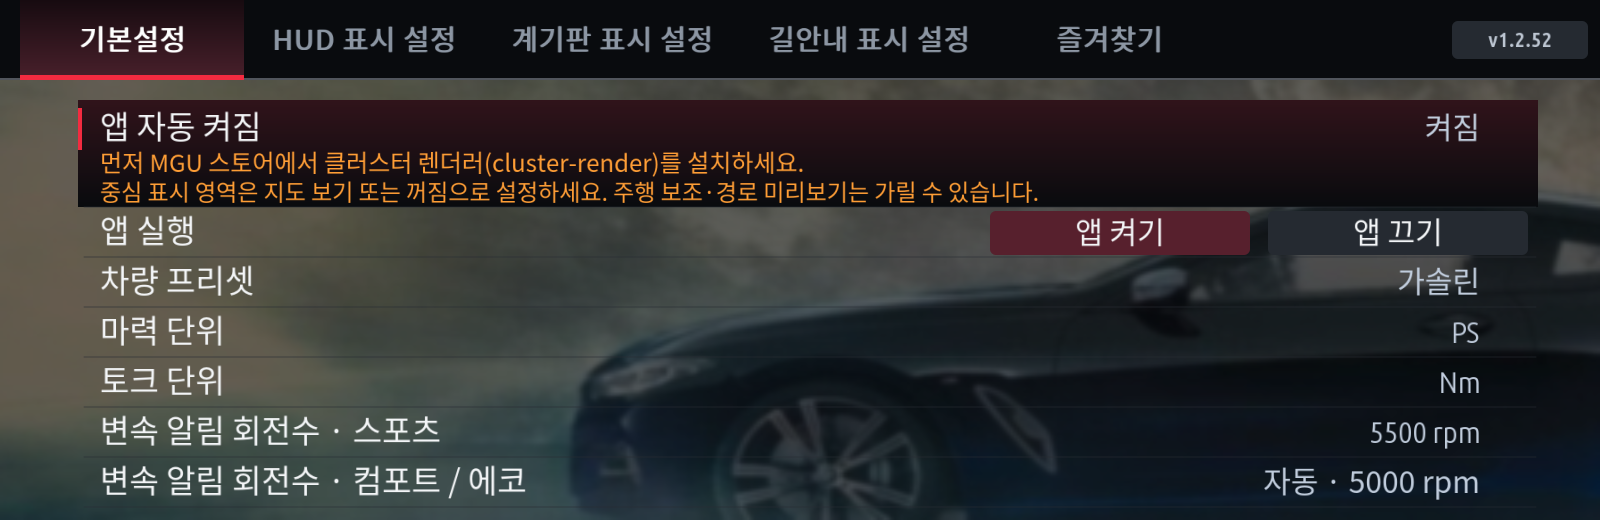
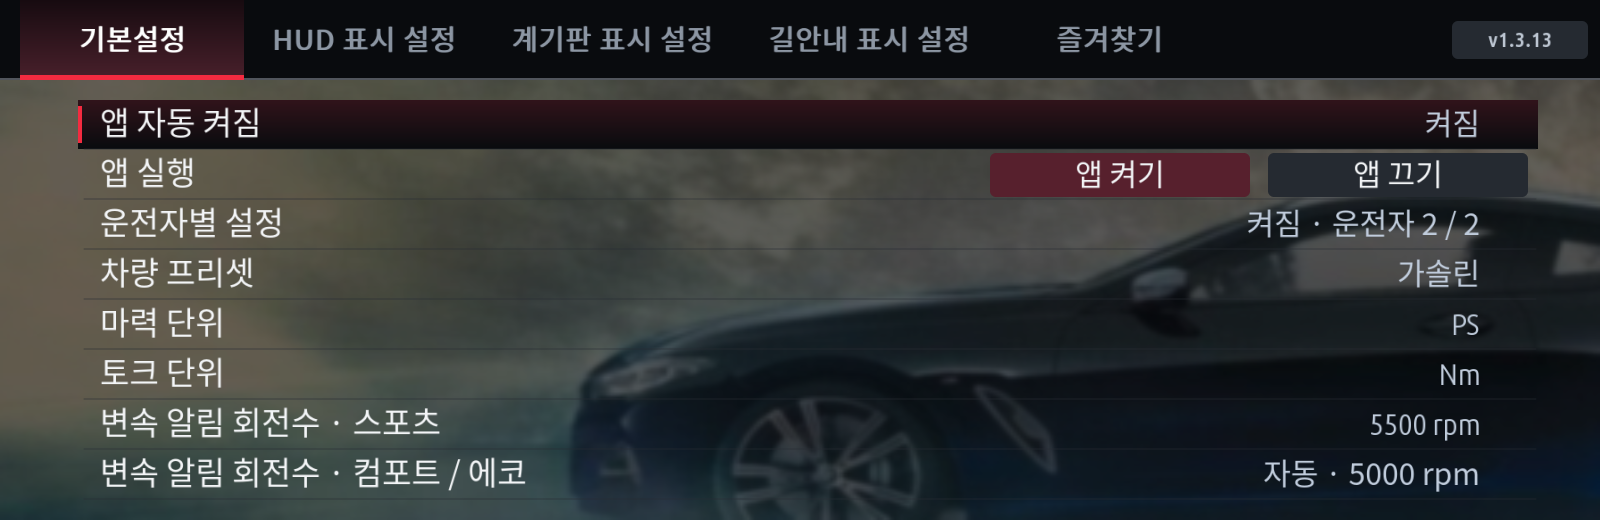
Cluster Redline 1.3.13: settings per driver; Basic tab without the orange notices
Settings per driver (Basic tab, off by default): the head unit's user account
(SessionManager.currentUserAccountReference, every 5 s) picks whose settings
are in use; each driver keeps the favourite-style setup (not the vehicle
preset or auto-start) in driver-profiles.json. The Basic tab drops the
renderer / display-area notices (the guide keeps them).

Claude-Session: https://claude.ai/code/session_01LR6i2U2cVprmp7fS2LvR7P

diff --git a/apps/cluster_redline/settings-ui.js b/apps/cluster_redline/settings-ui.js
@@ -6,7 +6,7 @@ const {settings:effective,PROFILES,DEFAULTS}=require('./policy');
 const D=require('./display-config'),RL=require('./redline-hud'),HUD=require('./hud-draw'),CLUSTER=require('./draw'),NAV=require('./nav-draw');
 const {measurePart}=require('./component-canvas'),{placement}=require('./layout'),NAV_TEXT=require('./nav-text');
 const W=1600,H=520,TABS=['Basic settings','HUD display setting','CLUSTER display setting','NAV display setting','Favorites'],FAV_TAB=4,FAV_COUNT=5,FAV_GAP=1500,FAV_ARM=4000;
-const GROUPS=[['autoStart','appEnabled','engineProfile','powerUnit','torqueUnit','shiftRpm','comfortShiftRpm'],['sportHudOutput','allHudOutput','aux','design','layout','turn'],['sportClusterOutput','allClusterOutput','aux','design','layout'],['navDisplayMode','navColor','clusterYieldGuidance','hudCarAlerts','layout']];
+const GROUPS=[['autoStart','appEnabled','driverProfiles','engineProfile','powerUnit','torqueUnit','shiftRpm','comfortShiftRpm'],['sportHudOutput','allHudOutput','aux','design','layout','turn'],['sportClusterOutput','allClusterOutput','aux','design','layout'],['navDisplayMode','navColor','clusterYieldGuidance','hudCarAlerts','layout']];
 const RENDERER_NOTICE='Install Cluster renderer (cluster-render) from MGU Store first.';
 const MAP_WARNING='Set Central display area to Map view or Off. Assist or route preview may cover the widget.';
 const HUD_WARNING='HUD navigation shows received turn guidance; unavailable data preserves stock guidance.';
@@ -17,6 +17,8 @@ const RL_KEYS=Object.keys(DEFAULTS).filter(k=>/^(hud|cluster)Rl/.test(k)),defaul
 // HUD turn signals: kept outside app.json, like the designs.
 const TURN_KEYS=Object.keys(D.defaults).filter(k=>/^hudTurn/.test(k));
 const TURN_ITEM={key:'turn',label:'Turn signals on HUD',type:'action'};
+// Settings per driver (driver-profiles.js): kept outside app.json; main.js sets page.driverStatus.
+const DRIVER_ITEM={key:'driverProfiles',label:'Settings per driver',type:'choice',options:[['off',tr('Off')],['on',tr('On')]]};
 // Vehicle alerts (vehicle-alerts.js): kept outside app.json, like the turn signals.
 const ALERT_KEYS=Object.keys(D.defaults).filter(k=>/^hudCarAlert/.test(k));
 const ALERT_ITEM={key:'hudCarAlerts',label:'Vehicle alerts',type:'choice',options:[['off',tr('Off')],['speed',tr('Speeding')],['school',tr('School zone')],['camera',tr('Speed camera')],['all',tr('Show all')]]};
@@ -67,7 +69,7 @@ class SettingsPage{
  config(){const raw={};this.settings.schema.forEach(s=>{raw[s.key]=this.settings.get(s.key);});['clockZone','layoutPreview','hudDesign','clusterDesign','comfortShiftRpm','clusterYieldGuidance','navTextColor'].concat(RL_KEYS,TURN_KEYS,ALERT_KEYS).forEach(k=>{if(raw[k]===undefined)raw[k]=this.settings.get(k);});return effective(raw);}
  display(){return this.tab===2?'cluster':'hud';}
  keys(){return this.tab===FAV_TAB?[]:GROUPS[this.tab];}
- item(){const key=this.keys()[this.focus];if(key==='turn')return TURN_ITEM;if(key==='hudCarAlerts')return ALERT_ITEM;if(key==='comfortShiftRpm')return COMFORT_ITEM;if(key==='clusterYieldGuidance')return YIELD_ITEM;if(['aux','design','layout'].includes(key))return {key,label:{aux:'Auxiliary information',design:'Design',layout:'Position / size'}[key],type:'action'};return this.settings.schema.find(s=>s.key===key);}
+ item(){const key=this.keys()[this.focus];if(key==='turn')return TURN_ITEM;if(key==='hudCarAlerts')return ALERT_ITEM;if(key==='driverProfiles')return DRIVER_ITEM;if(key==='comfortShiftRpm')return COMFORT_ITEM;if(key==='clusterYieldGuidance')return YIELD_ITEM;if(['aux','design','layout'].includes(key))return {key,label:{aux:'Auxiliary information',design:'Design',layout:'Position / size'}[key],type:'action'};return this.settings.schema.find(s=>s.key===key);}
  // Keep Basic a normal tab, including repeated taps from older hosts.
  tapBasic(){this.selectTab(0);}
  selectTab(i){if(this.open==='layout'||this.open==='layoutPresets'||this.settings.get('layoutPreview'))this.setPreview(false);this.layoutKind=null;this.tab=Math.max(0,Math.min(FAV_TAB,i|0));this.favArmed=null;this.focus=0;this.open=null;this.draft=null;this.choice=0;this.changed();}
@@ -94,6 +96,7 @@ class SettingsPage{
   if(item.key==='aux'){const a=D.auxConfig(cfg[this.display()+'AuxConfig']);return t(a.mode==='values'?'Text':'Gauges')+' · '+a.items.map(k=>tr(D.LABELS[k])).join(' / ');}
   if(item.key==='design'){const d=this.display();if(RL.active(cfg,d))return tr('Redline app layouts')+' · '+tr(RL.NAMES[RL.style(cfg,d)]);return t(cfg[this.display()+'AlertStyle']==='circle'?'Circle beside gear':'Top alert bar');}
   if(item.key==='layout')return t('Adjust');
+  if(item.key==='driverProfiles')return this.driverValue();
   if(item.key==='navColor')return tr('Arrow')+' '+tr(NAV_COLOR_LABELS[cfg.navColor])+' · '+tr('Text')+' '+tr(NAV_COLOR_LABELS[cfg.navTextColor]);
   if(item.key==='turn')return cfg.hudTurnSignals==='on'?tr('On')+' · '+tr(TURN_STYLE_LABELS[cfg.hudTurnStyle])+' · '+tr(TURN_COLOR_LABELS[cfg.hudTurnColor]):tr('Off');
   if(item.key==='appEnabled')return t(cfg.appEnabled?'Running':'Stopped');
@@ -164,8 +167,8 @@ class SettingsPage{
  drawRows(cv,cfg,targets,status){
   let y=100;
   this.keys().forEach((key,i)=>{
-   const item=key==='turn'?TURN_ITEM:key==='hudCarAlerts'?ALERT_ITEM:key==='comfortShiftRpm'?COMFORT_ITEM:key==='clusterYieldGuidance'?YIELD_ITEM:['aux','design','layout'].includes(key)?{key,label:{aux:'Auxiliary information',design:'Design',layout:'Position / size'}[key]}:this.settings.schema.find(s=>s.key===key);
-   const h=this.tab===0?(key==='autoStart'?108:50):this.tab===1||this.tab===3?56:68,ty=h===50?35:39;
+   const item=key==='turn'?TURN_ITEM:key==='hudCarAlerts'?ALERT_ITEM:key==='driverProfiles'?DRIVER_ITEM:key==='comfortShiftRpm'?COMFORT_ITEM:key==='clusterYieldGuidance'?YIELD_ITEM:['aux','design','layout'].includes(key)?{key,label:{aux:'Auxiliary information',design:'Design',layout:'Position / size'}[key]}:this.settings.schema.find(s=>s.key===key);
+   const h=this.tab===0?50:this.tab===1||this.tab===3?56:68,ty=h===50?35:39;
    if(i===this.focus){cv.gradientRect(78,y,1460,h-1,[[0,'#30131a'],[1,'#090b0e']]);cv.fillRect(78,y+(h===50?6:8),4,h===50?37:42,'#f32b40');}
    const label=/^sport/.test(key)?'Sport mode RPM display':/^all/.test(key)?'All modes RPM display':ROW_LABELS[key]||item.label;
    cv.text(tr(label),100,y+ty,32,'#f3f5f7');
@@ -175,7 +178,7 @@ class SettingsPage{
     let size=30,value=this.value(item,cfg);while(size>18&&cv.textWidth(value,size)>850)size--;
     cv.text(value,1480,y+ty,size,'#c1cddd',{align:'right'});targets.push({x:78,y,w:1460,h:h-1,act:()=>this.activate(i),label,id:key});
    }
-   if(key==='autoStart'){cv.text(RENDERER_NOTICE,100,y+72,24,'#ff9e36');cv.text(cfg.sportHudOutput==='redline'||cfg.allHudOutput!=='stock'?HUD_WARNING:MAP_WARNING,100,y+101,23,'#ff9e36');}
+   // (1.3.13: the Basic tab's renderer / display-area notices are gone; the guide keeps them)
    cv.line(84,y+h-1,1536,y+h-1,0.6,'#292d34');y+=h;
   });
   if(this.tab===1||this.tab===2){cv.text(tr('All modes: Sport too · Except Sport modes: Sport follows its own row.'),84,492,23,'#91a1b6',{literal:true});let o=this.outsideStatus(cfg);if(o){while(o.length>5&&cv.textWidth(o,21,{literal:true})>1000)o=o.slice(0,-2);cv.text(o,84,462,21,'#ffad45',{literal:true});}}
@@ -210,6 +213,13 @@ class SettingsPage{
    parts.push(a.state==='waiting'?tr('route events not available yet'):a.state==='types_rejected'?tr('the car refused the alert query'):!a.replies?tr('Speed camera')+' '+tr('no reply yet'):tr('Speed camera')+' '+(k('speedCamera')+k('speedSectionCamera'))+'/'+a.replies);}
   if(o.shown)parts.push(tr('shown'));
   return head+': '+parts.join(' · ');
+ }
+ // Settings per driver: on / off and whose settings are in use (driver 1, 2 ... in the order first seen).
+ driverValue(){
+  if(this.settings.get('driverProfiles')!=='on')return tr('Off');
+  const s=typeof this.driverStatus==='function'?this.driverStatus():null;if(!s)return tr('On');
+  if(s.state==='ready'&&s.driver)return tr('On')+' · '+tr('Driver')+' '+s.driver+(s.drivers>1?' / '+s.drivers:'');
+  return tr('On')+' · '+tr(s.state==='error'||s.state==='unavailable'?'driver not readable':'reading the driver');
  }
  yieldStatus(cfg){
   if(cfg.clusterYieldGuidance==='off')return '';const y=this.liveState&&this.liveState.clusterYield;if(!y)return tr('Yield')+': '+tr('waiting for the background app');
@@ -538,4 +548,4 @@ class SettingsPage{
  }
 
 }
-module.exports={SettingsPage,GROUPS,TABS,options,W,H,MAP_WARNING,HUD_WARNING,RENDERER_NOTICE,WARNING:MAP_WARNING};
+module.exports={favKeys,SettingsPage,GROUPS,TABS,options,W,H,MAP_WARNING,HUD_WARNING,RENDERER_NOTICE,WARNING:MAP_WARNING};

diff --git a/apps/cluster_redline/driver-profiles.js b/apps/cluster_redline/driver-profiles.js
@@ -1,0 +1,61 @@
+'use strict';
+// Settings per driver: the head unit's current user account (personalization.SessionManager
+// .currentUserAccountReference, a getter, read every 5 s, as Cluster Info in appscluster_fork does) picks whose
+// settings are in use. Each driver keeps the favourite-style whole setup (settings-ui favKeys, without what belongs
+// to the car: vehicle preset, auto-start) in driver-profiles.json in the app's data folder:
+//   - a change is kept for the driver at the time;
+//   - a driver seen again gets theirs back (one write, only the keys that differ);
+//   - a driver seen for the first time keeps what is set now.
+// Off (the default) reads nothing. Read-only towards the car; subscribed directly (not through the worker's demand
+// set), only while on.
+const IFACE='de.bmw.infotainment.personalization.SessionManager',FIELD='currentUserAccountReference';
+const CAR_KEYS=['engineProfile','autoStart','driverProfiles'];
+function idOf(v){
+ if(typeof v==='string'||typeof v==='number')return String(v)||null;
+ if(v&&typeof v==='object'){for(const k of ['value',FIELD,'id','reference']){const r=idOf(v[k]);if(r)return r;}}
+ return null;
+}
+class DriverProfiles{
+ // o: { settings, signals, log, fs, file, keys: () => [setting keys], changed: () => void }
+ constructor(o){
+  this.settings=o.settings;this.signals=o.signals;this.log=o.log||{warn(){},info(){}};this.fs=o.fs;this.file=o.file;this.keysOf=o.keys;this.changed=o.changed||(()=>{});
+  this.profiles={};this.order=[];this.current=null;this.sub=null;this.state='off';this.error=null;this.applying=false;this.reads=0;
+  try{const d=JSON.parse(this.fs.readFileSync(this.file,'utf8'));if(d&&typeof d==='object'){this.profiles=d.profiles||{};this.order=Array.isArray(d.order)?d.order:Object.keys(this.profiles);}}catch(e){}
+  this.settings.onChange((k,v)=>{
+   if(k==='driverProfiles'){this.sync();return;}
+   if(this.applying||!this.on()||!this.current||this.keys().indexOf(k)<0)return;
+   this.profiles[this.current]=Object.assign(this.profiles[this.current]||this.snapshot(),{[k]:v});this.save();
+  });
+  this.sync();
+ }
+ on(){return this.settings.get('driverProfiles')==='on';}
+ keys(){return this.keysOf().filter(k=>CAR_KEYS.indexOf(k)<0);}
+ snapshot(){const o={};this.keys().forEach(k=>{const v=this.settings.get(k);if(v!==undefined)o[k]=v;});return o;}
+ save(){try{this.fs.writeFileSync(this.file,JSON.stringify({profiles:this.profiles,order:this.order}));}catch(e){this.log.warn('driver profiles: '+e);}}
+ // Start or stop reading the current driver as the setting says.
+ sync(){
+  if(!this.on()){if(this.sub){try{this.sub.shutdown();}catch(e){}this.sub=null;}this.current=null;this.state='off';this.changed();return;}
+  if(this.sub||this.state==='subscribing')return;
+  if(!this.signals||typeof this.signals.watch!=='function'||(typeof this.signals.hasNative==='function'&&!this.signals.hasNative())){this.state='unavailable';this.changed();return;}
+  this.state='subscribing';
+  Promise.resolve().then(()=>this.signals.watch(IFACE,IFACE,{[FIELD]:v=>this.sample(v)},this.log,{pollMs:5000})).then(s=>{
+   if(!this.on()){try{s.shutdown();}catch(e){}this.state='off';return;}
+   this.sub=s;this.error=s&&s.error?String(s.error):null;this.state=this.error?'error':'waiting';this.changed();
+  },e=>{this.error=String(e&&e.message||e);this.state='error';this.changed();});
+ }
+ sample(v){
+  this.reads++;const id=idOf(v);if(!id||!this.on())return;
+  this.state='ready';if(id===this.current)return;
+  this.current=id;if(this.order.indexOf(id)<0)this.order.push(id);
+  const saved=this.profiles[id];
+  if(!saved){this.profiles[id]=this.snapshot();this.save();this.log.info('driver profile: first seen, current settings kept');this.changed();return;}
+  const changes={};Object.keys(saved).forEach(k=>{if(this.keys().indexOf(k)>=0&&saved[k]!==undefined&&this.settings.get(k)!==saved[k])changes[k]=saved[k];});
+  if(Object.keys(changes).length){this.applying=true;
+   try{if(typeof this.settings.setMany==='function')this.settings.setMany(changes);else Object.keys(changes).forEach(k=>this.settings.set(k,changes[k]));}finally{this.applying=false;}}
+  this.log.info('driver profile: their settings');this.changed();
+ }
+ /** For the settings screen: { state, driver: 1-based number in the order first seen, or null, drivers }. */
+ status(){return {state:this.state,driver:this.current?this.order.indexOf(this.current)+1:null,drivers:this.order.length,error:this.error};}
+ stop(){if(this.sub){try{this.sub.shutdown();}catch(e){}this.sub=null;}}
+}
+module.exports={DriverProfiles,IFACE,FIELD,idOf,CAR_KEYS};

diff --git a/apps/cluster_redline/strings.js b/apps/cluster_redline/strings.js
@@ -11,7 +11,7 @@ const KO={
  'Traffic signs':'교통 표지','Select Redline HUD in the current drive mode':'현재 주행 모드의 HUD를 레드라인 앱으로 선택하세요','Camera input missing · reinstall from Store':'카메라 신호 미설치 · 스토어에서 다시 설치','Waiting for camera sign data':'카메라 표지 데이터 수신 대기','Camera':'카메라','Combined recognition':'종합 인식','Alert data ready':'알림 표시 조건 충족','Camera data expired or disconnected':'카메라 데이터 만료 또는 연결 끊김','Combined input missing · reinstall from Store':'종합 인식 신호 미설치 · 스토어에서 다시 설치','Speed limit outside supported test range':'시험 지원 범위 밖 제한속도','No fresh matching sign · children alert lasts 6 s':'유효한 일치 표지 대기 · 어린이 알림은 6초 표시',
  'Save + new recording':'기록 저장 · 계속','Clear current records':'현재 기록 지우기','No records yet · recording started':'저장할 기록 없음 · 새 수집 시작','Saved · new recording':'저장 완료 · 새 수집 중','Save failed':'기록 저장 또는 재시작 실패',
  'Shown on the HUD whenever a turn signal or the hazards flash, even with the stock HUD.':'방향지시등·비상등이 깜빡이면 순정 HUD에서도 표시됩니다.',
- 'Turn signal input':'깜빡이 신호','Vehicle alerts':'차량 알림','Arrow colour':'화살표 색','Text colour':'텍스트 색','Arrow':'화살표','Sample road':'강남대로','Orange':'주황색','Green':'초록색','Blue':'파란색','White':'흰색','Sign recognition':'표지 인식','Speed':'속도','Speeding':'과속','School zone':'어린이보호구역','Speed camera':'단속 카메라','Section camera':'구간 단속','In the zone':'구역 안','In the section':'구간 안','Show all':'전체 표시','route events not available yet':'길안내 이벤트 아직 없음','the car refused the alert query':'차가 알림 조회를 거부함','asked':'조회','no reply yet':'응답 없음','shown':'표시 중','not installed (reinstall from the Store)':'미설치 (스토어에서 다시 설치)','no value from the car yet':'차에서 값이 아직 안 옴','Left':'왼쪽','Right':'오른쪽','Both (hazards)':'양쪽(비상등)','in the Redline HUD':'레드라인 HUD에 표시','overlay':'오버레이로 표시',
+ 'Turn signal input':'깜빡이 신호','Vehicle alerts':'차량 알림','Settings per driver':'운전자별 설정','Driver':'운전자','driver not readable':'운전자 확인 불가','reading the driver':'운전자 확인 중','Arrow colour':'화살표 색','Text colour':'텍스트 색','Arrow':'화살표','Sample road':'강남대로','Orange':'주황색','Green':'초록색','Blue':'파란색','White':'흰색','Sign recognition':'표지 인식','Speed':'속도','Speeding':'과속','School zone':'어린이보호구역','Speed camera':'단속 카메라','Section camera':'구간 단속','In the zone':'구역 안','In the section':'구간 안','Show all':'전체 표시','route events not available yet':'길안내 이벤트 아직 없음','the car refused the alert query':'차가 알림 조회를 거부함','asked':'조회','no reply yet':'응답 없음','shown':'표시 중','not installed (reinstall from the Store)':'미설치 (스토어에서 다시 설치)','no value from the car yet':'차에서 값이 아직 안 옴','Left':'왼쪽','Right':'오른쪽','Both (hazards)':'양쪽(비상등)','in the Redline HUD':'레드라인 HUD에 표시','overlay':'오버레이로 표시',
  'Speed limit':'제한속도','Speed alert':'과속 알림',
  'Children caution':'어린이 주의','Sign detected':'표지 감지',
  'Traffic sign alerts · experimental':'교통 표지 알림 · 시험 기능','Recognised speed limit':'인식 제한속도','Children sign':'어린이 주의 표지','Speed limit + children':'제한속도 + 어린이 주의','Children · sign detected':'어린이 주의 · 표지 감지','Over limit':'속도 초과',

diff --git a/tests/cluster_redline/driver-profiles.test.js b/tests/cluster_redline/driver-profiles.test.js
@@ -1,0 +1,29 @@
+'use strict';
+// Settings per driver: off reads nothing; on, the head unit's user account picks whose settings are in use; a change
+// is kept for the driver at the time; a new driver keeps the current settings; car settings are shared.
+const assert=require('assert');
+const {DriverProfiles,IFACE,FIELD,idOf}=require('../../apps/cluster_redline/driver-profiles');
+const settle=async()=>{for(let i=0;i<6;i++)await Promise.resolve();};
+(async()=>{
+ const values={driverProfiles:'off',hudDesign:'own',navColor:'blue',engineProfile:'petrol',autoStart:true},listeners=[];let writes=0;
+ const settings={get:k=>values[k],set:(k,v)=>{values[k]=v;listeners.forEach(f=>f(k,v));},setMany:c=>{writes++;Object.keys(c).forEach(k=>{values[k]=c[k];listeners.forEach(f=>f(k,c[k]));});},onChange:f=>listeners.push(f)};
+ const files={};const fs={readFileSync:f=>{if(!(f in files))throw new Error('ENOENT');return files[f];},writeFileSync:(f,d)=>{files[f]=d;}};
+ let feed=null,watched=0,shut=0;const signals={hasNative:()=>true,watch:(iface,inst,handlers,log,opts)=>{watched++;assert.strictEqual(iface,IFACE);assert.strictEqual(inst,IFACE);assert.strictEqual(opts.pollMs,5000);feed=handlers[FIELD];return Promise.resolve({available:true,shutdown(){shut++;}});}};
+ const d=new DriverProfiles({settings,signals,fs,file:'/data/driver-profiles.json',keys:()=>['hudDesign','navColor','engineProfile','autoStart','driverProfiles']});
+ await settle();assert.strictEqual(watched,0,'off: nothing read');assert.strictEqual(d.status().state,'off');
+ settings.set('driverProfiles','on');await settle();assert.strictEqual(watched,1);assert.strictEqual(d.status().state,'waiting');
+ feed({value:'acc-A'});assert.deepStrictEqual(d.status(),{state:'ready',driver:1,drivers:1,error:null});
+ settings.set('hudDesign','rl-ramp');settings.set('engineProfile','diesel');
+ feed('acc-B');assert.strictEqual(d.status().driver,2,'a new driver');assert.strictEqual(values.hudDesign,'rl-ramp','a new driver keeps what is set');
+ settings.set('hudDesign','own');settings.set('navColor','orange');
+ feed('acc-A');assert.strictEqual(values.hudDesign,'rl-ramp','driver A gets theirs back');assert.strictEqual(values.navColor,'blue');
+ assert.strictEqual(values.engineProfile,'diesel','the vehicle preset belongs to the car');
+ feed('acc-A');const w=writes;feed('acc-A');assert.strictEqual(writes,w,'the same driver: no write');
+ feed('acc-B');assert.strictEqual(values.hudDesign,'own');assert.strictEqual(values.navColor,'orange','driver B gets theirs back');
+ const saved=JSON.parse(files['/data/driver-profiles.json']);assert.deepStrictEqual(saved.order,['acc-A','acc-B']);assert(!('engineProfile' in saved.profiles['acc-A']));
+ const again=new DriverProfiles({settings,signals,fs,file:'/data/driver-profiles.json',keys:()=>['hudDesign','navColor']});await settle();assert.strictEqual(again.status().drivers,2,'kept across restarts');again.stop();
+ settings.set('driverProfiles','off');await settle();assert(shut>=1,'off: reading stops');assert.strictEqual(d.status().state,'off');
+ assert.strictEqual(idOf({currentUserAccountReference:7}),'7');assert.strictEqual(idOf(null),null);
+ const none=new DriverProfiles({settings:Object.assign({},settings,{get:k=>k==='driverProfiles'?'on':values[k]}),signals:null,fs,file:'/x',keys:()=>[]});assert.strictEqual(none.status().state,'unavailable');
+ console.log('PASS: settings per driver: off reads nothing, the user account picks the settings, changes kept per driver, new driver keeps current, car settings shared, kept across restarts');
+})().catch(e=>{console.error(e);process.exitCode=1;});

diff --git a/apps/cluster_redline/main.js b/apps/cluster_redline/main.js
@@ -10,6 +10,7 @@ const { migrate } = require('./migrate');
 const { mapStatus } = require('./output-status');
 const { RenderQueue } = require('./render-queue');
 const presence = require('./preview-presence');
+const { DriverProfiles } = require('./driver-profiles');
 const REASONS = {
     disabled: 'Automatic display off', renderer_unavailable: 'Waiting for cluster renderer',
     profile_unknown: 'Check engine profile', hybrid_engine_stopped: 'Hybrid engine stopped · hidden',
@@ -55,10 +56,14 @@ mgu.run({ settingsUI: 'custom', async start(ctx) {
     let background = null;
     const queue = new RenderQueue(render, report);
     const page = new SettingsPage(ctx.settings, () => queue.request(), ctx.spec.version);
+    // Settings per driver (driver-profiles.js): whose settings are in use follows the head unit's user account.
+    const drivers = new DriverProfiles({ settings: ctx.settings, signals: ctx.signals, log: ctx.log, fs, file: path.join(ctx.dataDir, 'driver-profiles.json'),
+        keys: () => require('./settings-ui').favKeys(ctx.settings.schema || []), changed: () => queue.request() });
+    page.driverStatus = () => drivers.status();
     // A preview left by an earlier process ends now; leaving the settings screen ends Position / size.
     if (ctx.settings.get('layoutPreview')) ctx.settings.set('layoutPreview', '');
     if (ctx.ui && typeof ctx.ui.onVisible === 'function') ctx.ui.onVisible((name, visible) => { if (name === 'MAIN' && !visible) page.leave(); });
-    if (ctx.app && ctx.app.once) ctx.app.once('shutdown', () => queue.stop());
+    if (ctx.app && ctx.app.once) ctx.app.once('shutdown', () => { queue.stop(); drivers.stop(); });
     function report() {}   // no logs
     function syncWorker() {
         if (ctx.settings.get('appEnabled') === true && !background) background = worker.start(ctx);

diff --git a/tests/cluster_redline/settings-refresh.test.js b/tests/cluster_redline/settings-refresh.test.js
@@ -7,7 +7,7 @@ const mocks={fs:{statSync(){throw Error('ENOENT');},mkdirSync(){},readFileSync()
  './settings-ui':{SettingsPage:class{constructor(s,changed){this.changed=changed;}selectTab(){this.changed();}},W:1600,H:520},
  './settings-chrome':{configure(){}},'./worker':{start(){throw Error('disabled app must not start');}},
  './migrate':{migrate(){}},'./output-status':{mapStatus:()=>''},
- './render-queue':{RenderQueue:class{request(){requests++;}async flush(){}stop(){}}},'./preview-presence':{touch(){}}};
+ './render-queue':{RenderQueue:class{request(){requests++;}async flush(){}stop(){}}},'./preview-presence':{touch(){}},'./driver-profiles':{DriverProfiles:class{status(){return {};}stop(){}}}};
 vm.runInNewContext(fs.readFileSync(root+'/main.js','utf8'),{require:n=>{assert(n in mocks,'unexpected runtime dependency '+n);return mocks[n];},Date:{now:()=>now,parse:Date.parse}});
 (async()=>{
  await entry.start({dataDir:'/d',spec:{id:'cluster_redline',version:'test'},settings:{get:()=>false,set(){},onChange(){}},

diff --git a/tests/cluster_redline/draft-settings.test.js b/tests/cluster_redline/draft-settings.test.js
@@ -7,7 +7,7 @@ const ui=load('settings-ui.js',{'./kit/i18n':{t:x=>x},'./kit/gauges':{},'./setti
 function canvas(){const c={labels:[],textWidth:(s,z)=>String(s).length*z/2,text(s){this.labels.push(s);}};for(const n of ['clear','line','polyline','fillRect','roundRect','gradientRect'])c[n]=()=>{};return c;}
 const saved=store({autoStart:false,appEnabled:false}),page=new ui.SettingsPage(saved,null,'draft');
 let cv=page.draw(canvas());
-assert.strictEqual(page.keys().length,7,'Basic: six settings and the Comfort / Eco shift alert RPM');
+assert.strictEqual(page.keys().length,8,'Basic: six settings, the Comfort / Eco shift alert RPM and Settings per driver');
 for(const r of cv.targets)assert(r.x>=0&&r.y>=0&&r.x+r.w<=1600&&r.y+r.h<=520);
 cv.targets.find(r=>r.x===990).act();assert.strictEqual(saved.get('appEnabled'),true);assert.strictEqual(saved.get('autoStart'),false);
 cv.targets.find(r=>r.x===1268).act();assert.strictEqual(saved.get('appEnabled'),false);

diff --git a/README.md b/README.md
@@ -8,7 +8,7 @@ their ID7 restrictions. Listing visibility does not enable ID8 installation.
 
 **Made by 잼님 (jaimeen77)** · Download: [github.com/jaimeen77-cmyk/apps](https://github.com/jaimeen77-cmyk/apps) · MGU Store source: `jaimeen77-cmyk/apps` (branch `main`) · Blog: [blog.naver.com/jaimeen77](https://blog.naver.com/jaimeen77) · Korean guide: [설치·사용 설명서](docs/CLUSTER-REDLINE.ko.md)
 
-**Cluster Redline 1.3.12** (now permission required, see License below): navigation arrow and text colours (orange / green / blue / white); vehicle alerts on the HUD (speeding and children signs from the camera sign recognition, speed cameras); HUD turn signals work (the light module is now subscribed), in the Redline HUD while it shows, on their own overlay layers over the stock HUD, Position / size preview ends when the screen is left, battery voltage kept through missed replies; all modes RPM display can leave out Sport modes (cluster and HUD), turn signal arrows on the HUD (shape, colour, position); cluster released while guidance shows on the HUD (Waze included), tuned HUD layout defaults, outside temperature fix (1.2.8: Redline layouts element by element, Korean time for the clock). **iDrive Circuit 1.0.5** and **MGU Monitor 1.1.7** (Log history tab: daily averages and average use by app) are also available.
+**Cluster Redline 1.3.13** (now permission required, see License below): settings per driver; navigation arrow and text colours (orange / green / blue / white); vehicle alerts on the HUD (speeding and children signs from the camera sign recognition, speed cameras); HUD turn signals work (the light module is now subscribed), in the Redline HUD while it shows, on their own overlay layers over the stock HUD, Position / size preview ends when the screen is left, battery voltage kept through missed replies; all modes RPM display can leave out Sport modes (cluster and HUD), turn signal arrows on the HUD (shape, colour, position); cluster released while guidance shows on the HUD (Waze included), tuned HUD layout defaults, outside temperature fix (1.2.8: Redline layouts element by element, Korean time for the clock). **iDrive Circuit 1.0.5** and **MGU Monitor 1.1.7** (Log history tab: daily averages and average use by app) are also available.
 
 [한국어](README.ko.md)
 
@@ -19,7 +19,7 @@ their ID7 restrictions. Listing visibility does not enable ID8 installation.
 | Use MGU Monitor | [MGU Monitor](apps/storage/README.md) | [MGU 모니터](apps/storage/README.ko.md) |
 | Use Circuit | [Circuit](apps/idrive_circuit/README.md) | [회로 퍼즐](apps/idrive_circuit/README.ko.md) |
 
-Add MGU Store source **`jaimeen77-cmyk/apps`**, branch **`main`**, refresh and choose Korean or English. Redline requires **`cluster-render` 0.4.0+**. Update existing installs in Installed and check **v1.3.12** in the app. Stop and disable auto-start in an unused language edition if both are installed.
+Add MGU Store source **`jaimeen77-cmyk/apps`**, branch **`main`**, refresh and choose Korean or English. Redline requires **`cluster-render` 0.4.0+**. Update existing installs in Installed and check **v1.3.13** in the app. Stop and disable auto-start in an unused language edition if both are installed.
 
 | HUD circle | HUD bar |
 |---|---|

diff --git a/docs/CLUSTER-REDLINE.ko.md b/docs/CLUSTER-REDLINE.ko.md
@@ -59,6 +59,7 @@
 |---|---|---|
 | 앱 자동 켜짐 | 켜짐 / 꺼짐 | 다음 시동(앱 시작) 때 자동으로 표시를 시작할지 정합니다. |
 | 앱 실행 | 앱 켜기 / 앱 끄기 | 지금 바로 표시를 시작·중지합니다. 꺼도 설정 화면은 그대로 쓸 수 있습니다. |
+| 운전자별 설정 | 꺼짐(기본) / 켜짐 | 켜면 차의 현재 사용자(운전자 프로필)에 따라 설정을 따로 기억합니다. 아래 3-1. |
 | 차량 프리셋 | 가솔린 / 디젤 / eDrive (플러그인 하이브리드) / M | RPM 눈금과 변속 알림 기본값을 정합니다. 차를 자동으로 알아보는 기능은 아닙니다. |
 | 마력 단위 | PS / kW | 마력 표시 단위입니다. |
 | 토크 단위 | Nm / kgf·m | 토크 표시 단위입니다. |
@@ -68,6 +69,17 @@
 변속 알림은 설정 회전수의 50 %부터 초록, 80 %부터 노랑, 설정 회전수에서 빨강으로 깜박입니다.
 
 ![컴포트 / 에코 변속 알림 회전수](../screenshots/guide/settings-basic-comfort.png)
+
+설치 전 준비(클러스터 렌더러 cluster-render 설치, 중심 표시 영역을 지도 보기 또는 꺼짐으로)는 위 1. 설치를 참고하세요. 1.3.13부터 이 안내는 기본설정 탭에 표시하지 않습니다.
+
+### 3-1. 운전자별 설정
+
+- 차의 현재 사용자 계정(운전자 프로필)을 5초마다 확인해, 운전자마다 설정을 따로 기억합니다.
+- 설정을 바꾸면 그때 운전 중인 운전자의 설정으로 저장됩니다. 다른 운전자로 바뀌면 그 사람 설정으로 자동으로 바뀝니다.
+- 처음 보는 운전자는 지금 설정을 그대로 이어받습니다.
+- 운전자별로 기억하는 범위는 즐겨찾기와 같습니다(디자인, 위치/크기, 부가정보, 길안내 색, 깜빡이, 차량 알림 등). **차량 프리셋**과 **앱 자동 켜짐**은 차 설정이라 모든 운전자가 함께 씁니다.
+- 줄 오른쪽에 `켜짐 · 운전자 2 / 2`처럼 지금 운전자(처음 본 순서대로 번호)와 기억한 운전자 수가 나옵니다. **운전자 확인 불가**가 나오면 이 차에서 운전자 프로필을 읽을 수 없는 것입니다.
+- 기억한 설정은 앱 데이터 폴더의 `driver-profiles.json`에 있습니다. 차에는 아무것도 쓰지 않습니다.
 
 ---
 

diff --git a/CHANGELOG.md b/CHANGELOG.md
@@ -2,6 +2,11 @@
 
 Version history is kept here. For current usage, see [Cluster Redline](docs/CLUSTER-REDLINE.ko.md).
 
+## Cluster Redline 1.3.13
+
+- **Settings per driver** (Basic tab, off by default): the head unit's current user account (`personalization.SessionManager.currentUserAccountReference`, read every 5 s, as Cluster Info in appscluster_fork does) picks whose settings are in use. Each driver keeps the favourite-style whole setup (without the vehicle preset and auto-start, which belong to the car) in `driver-profiles.json`: a change is kept for the driver at the time, a driver seen again gets theirs back in one write, a driver seen for the first time keeps the current settings. The row shows `On · Driver 2 / 2`, or that the driver cannot be read. Read directly from the settings host (not through the worker's demand set), only while on; the package already carries the SessionManager proxy from the kit template.
+- The Basic tab no longer shows the orange renderer / display-area notices (the user guide keeps them); every Basic row is the same height.
+
 ## Cluster Redline 1.3.12
 
 - **Navigation colours**: the NAV tab's Navigation colour screen now sets both the **arrow colour** (turn arrow and the recommended lanes) and the **text colour** (distance, road name, exit name), each orange / green / blue / white, with a live preview. The text was always white before. Defaults are unchanged (blue arrow, white text); a saved grey arrow, no longer offered, becomes white. The text colour (`navTextColor`) is kept outside app.json, like the turn signal colour, and is part of favourites.
